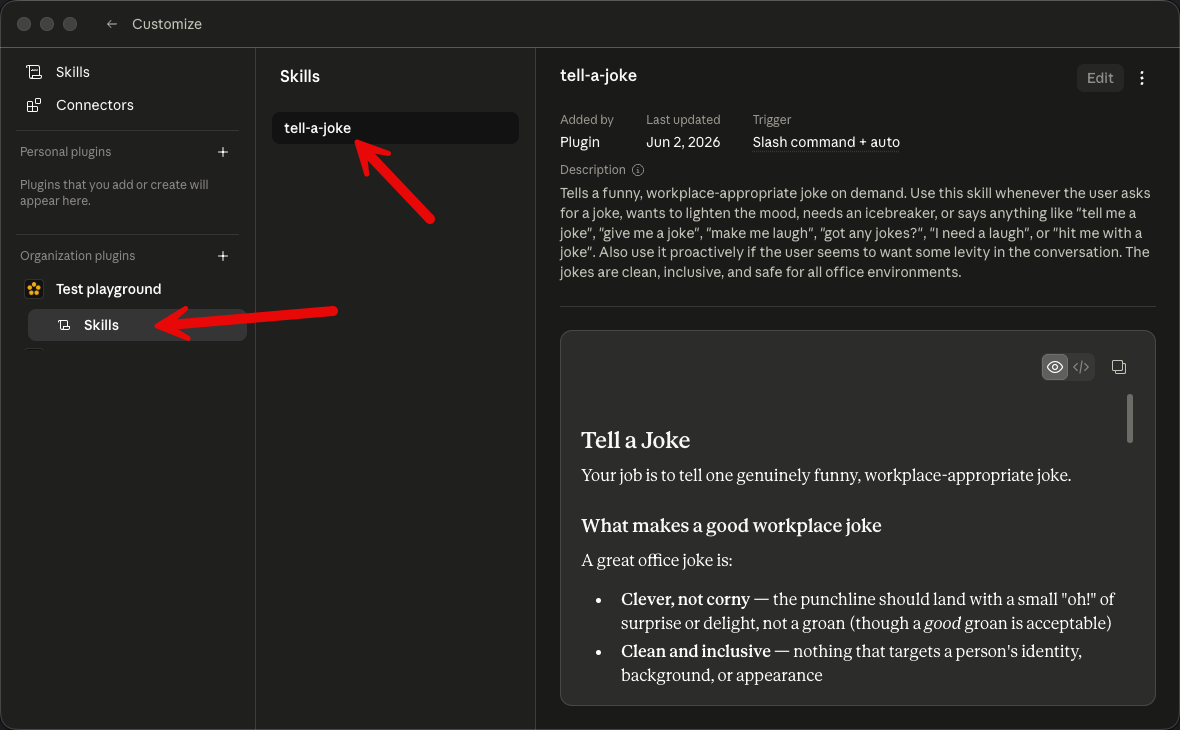
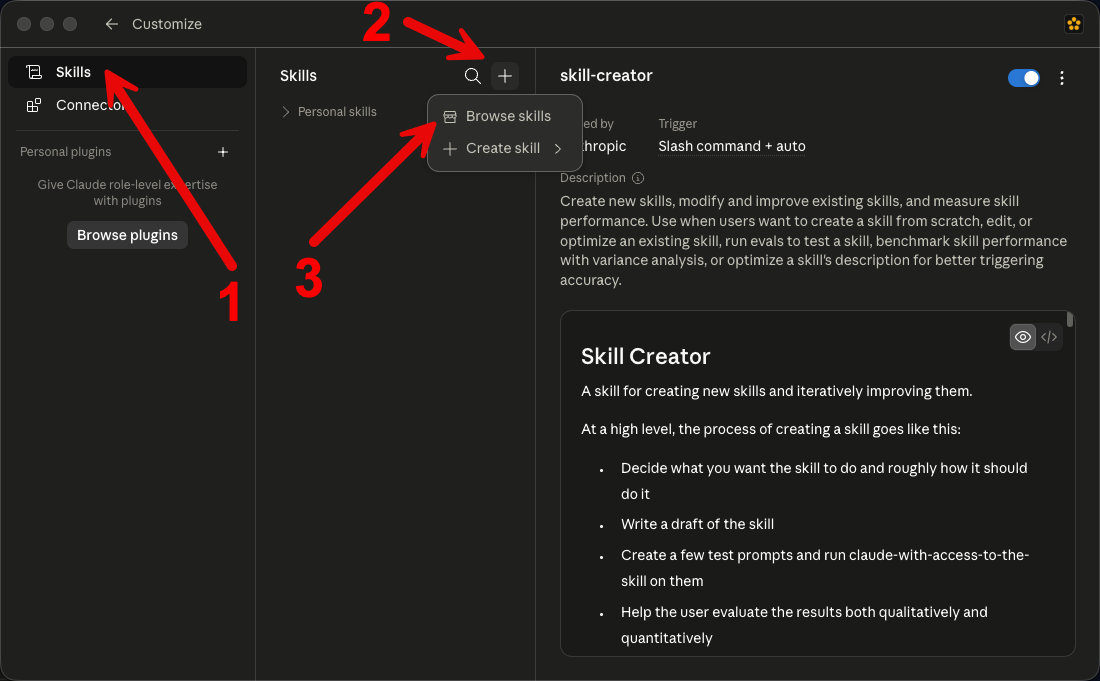
update enterprise walkthrough steps and add new screenshots

diff --git a/frontend/src/views/PluginListView.vue b/frontend/src/views/PluginListView.vue
@@ -99,7 +99,7 @@ const mcpJsonConfig = computed(() => JSON.stringify({
 }, null, 2))
 
 // ─── Enterprise / team walkthrough ──────────────────────────────────
-// Screenshots live in src/assets/enterprise/ (step-1…step-4); import.meta.glob
+// Screenshots live in src/assets/enterprise/ (step-1…step-6); import.meta.glob
 // resolves whatever is present, so a missing file never breaks the build and a
 // new screenshot shows up the moment it's dropped in.
 const shotUrls = import.meta.glob('../assets/enterprise/*.{png,jpg,jpeg,webp}', {
@@ -110,9 +110,9 @@ function shot(file: string): string | undefined {
   return shotUrls[`../assets/enterprise/${file}`]
 }
 
-// The flow a team member sees in the Claude app: your org has already connected
-// this marketplace, so the plugins, skills and MCP server are just there — these
-// steps show where to find them. Nothing to install or paste.
+// The flow a team member sees in the Claude app. Steps 1–3 cover enabling the
+// MCP connector your org publishes; steps 4–6 cover installing one of your
+// organization's plugins. Nothing to paste — it's all point-and-click.
 const steps = [
   {
     img: 'step-1.png',
@@ -130,19 +130,36 @@ const steps = [
   },
   {
     img: 'step-3.png',
-    title: 'the MCP connector is already there',
-    body: 'under Connectors you\'ll find this marketplace\'s server already ' +
-      'connected. it lets Claude read plugins and create or update skills — the ' +
-      'tool permissions are listed so you can see exactly what it can do.',
+    title: 'connect the MCP server',
+    body: 'under Connectors, open this marketplace\'s server and connect it — the ' +
+      'first time, you\'ll be asked to sign in to authorize the connection. once ' +
+      'authentication succeeds it shows as connected, like in the screenshot. it ' +
+      'lets Claude read plugins and create or update skills, with the tool ' +
+      'permissions listed so you can see exactly what it can do.',
     note: '',
   },
   {
     img: 'step-4.png',
-    title: 'your skills are ready to use',
-    body: 'under Skills, the skills from your organization\'s plugins show up ' +
-      'automatically — pick one to see its description and trigger, and it\'s live ' +
-      'right away.',
-    note: 'skills run in Cowork and Code — not in Chat.',
+    title: 'open the plugin directory',
+    body: 'to add a plugin, click the + at the top of the Customize panel and ' +
+      'choose Browse — this opens the directory of everything available to you.',
+    note: '',
+  },
+  {
+    img: 'step-5.png',
+    title: 'add a plugin from your organization',
+    body: 'in the directory, select Plugins and stay on the "Your organization" ' +
+      'tab. find the plugin you want and click its + to add it — these are the ' +
+      'plugins your admin has published for the team.',
+    note: '',
+  },
+  {
+    img: 'step-6.png',
+    title: 'the plugin and its skills are ready',
+    body: 'the plugin now shows under "Organization plugins" in the sidebar, and ' +
+      'any skills it bundles appear under Skills — pick one to see its description ' +
+      'and trigger, and it\'s live right away.',
+    note: '',
   },
 ] as const
 
@@ -363,9 +380,9 @@ onMounted(load)
       <template v-if="auth.enterpriseMode && !expertMode">
         <p class="pl-lead">
           your admin connects this marketplace once at the <strong>organization</strong>
-          level, so its plugins, skills and MCP server just show up in everyone's Claude —
-          there's nothing to install. here's where to find them (click any screenshot to
-          enlarge):
+          level, so the MCP server is already there and your team's plugins are ready to
+          add — nothing to paste. steps 1–3 show how to find the connector; steps 4–6 how
+          to install a plugin (click any screenshot to enlarge):
         </p>
 
         <ol class="pl-steps">

diff --git a/frontend/src/assets/enterprise/README.md b/frontend/src/assets/enterprise/README.md
@@ -1,11 +1,14 @@
 # Enterprise-mode walkthrough screenshots
 
-Drop the four connect-tab walkthrough screenshots here, named exactly:
+Drop the connect-tab walkthrough screenshots here, named exactly. Steps 1–3 cover
+enabling the MCP connector; steps 4–6 cover installing an organization plugin:
 
-- `step-1.png` — register the marketplace & plugins (managed-settings.json)
-- `step-2.png` — add the MCP server (.mcp.json / managed-mcp.json)
-- `step-3.png` — plugins load for every member in Claude Code
-- `step-4.png` — the team's skills in use
+- `step-1.png` — open Customize from Chat
+- `step-2.png` — open Customize from Cowork
+- `step-3.png` — the MCP connector is already there (Connectors)
+- `step-4.png` — open the plugin directory (+ → Browse)
+- `step-5.png` — add a plugin from "Your organization" (Plugins)
+- `step-6.png` — the plugin and its skills are ready
 
 `PluginListView.vue` resolves whatever is present here via `import.meta.glob`, so:
 - the build never breaks on a missing file, and